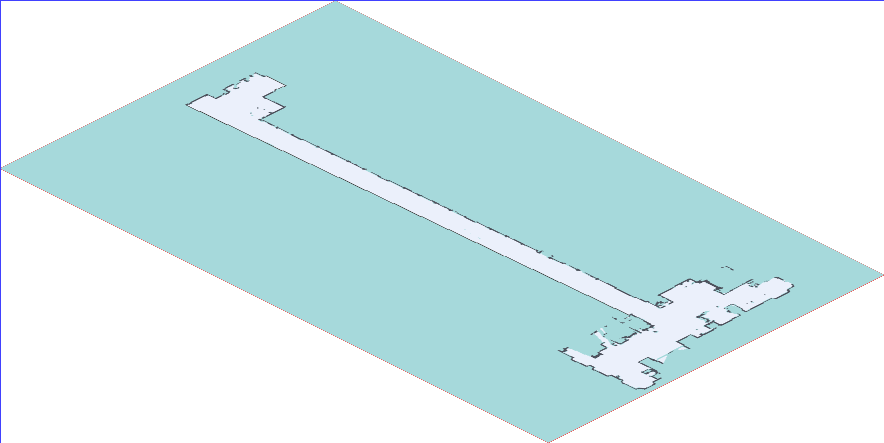
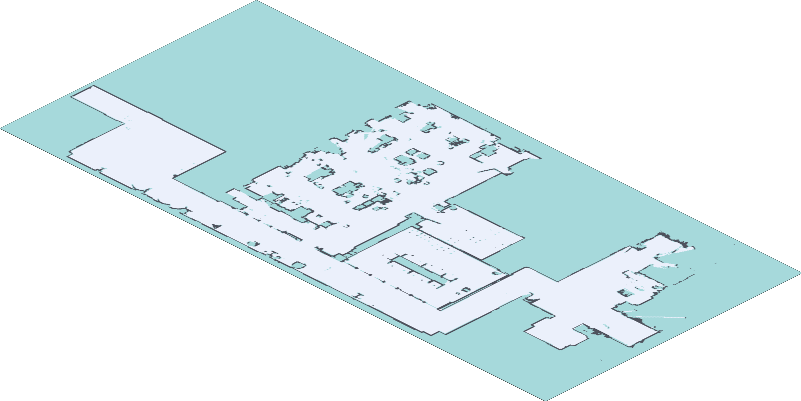
xxxx

diff --git a/2dmap_to_isomatric.py b/2dmap_to_isomatric.py
@@ -1,7 +1,7 @@
 import cv2
 import numpy as np
 
-map_img = cv2.imread('map.png')
+map_img = cv2.imread('map3.png')
 h, w = map_img.shape[:2]
 
 # 아이소메트릭 회전 + 스케일 행렬
@@ -32,7 +32,7 @@ translation = output_center - center_transformed
 M[:, 2] = translation.flatten()                     # 최종 행렬에 이동벡터 추가
 
 # 최종 변환 적용
-iso_map = cv2.warpAffine(map_img, M, output_size, flags=cv2.INTER_LINEAR, borderValue=(0,0,255))
+iso_map = cv2.warpAffine(map_img, M, output_size, flags=cv2.INTER_LINEAR, borderValue=(0,0,0))
 
 # 여백 최적화
 # 빨간 여백은 (0,0,255)이므로 회색값 기준으로 배경은 거의 76~85 정도

diff --git a/alpha_blending.py b/alpha_blending.py
@@ -1,0 +1,24 @@
+import cv2
+import numpy as np
+
+path1 = "keti_3f.png"
+path2 = "alpha.png"
+
+img1 = cv2.imread(path1)
+img1 = cv2.cvtColor(img1,cv2.COLOR_BGR2BGRA)
+img2 = cv2.imread(path2,cv2.IMREAD_UNCHANGED)
+
+alpha = 0.3
+beta = 0.7
+
+h,w,c = img1.shape
+
+img2 = cv2.resize(img2,(w,h))
+
+print(img1.shape)
+print(img2.shape)
+
+img3 = (img1 * alpha + img2 * beta).astype(np.uint8)
+
+cv2.imshow("blended",img3)
+cv2.waitKey(0)

diff --git a/alpha.py b/alpha.py
@@ -12,7 +12,7 @@ else:
     alpha[:, :] = 190
 
 # 누끼 따기
-red_mask = (r == 255) & (g == 0) & (b == 0) # 빨간색 찾기
+red_mask = (r == 0) & (g == 0) & (b == 0) # 빨간색 찾기
 alpha[red_mask] = 0                         # 빨간색 투명처리
 iso_img_rgba = cv2.merge((b, g, r, alpha))
 
